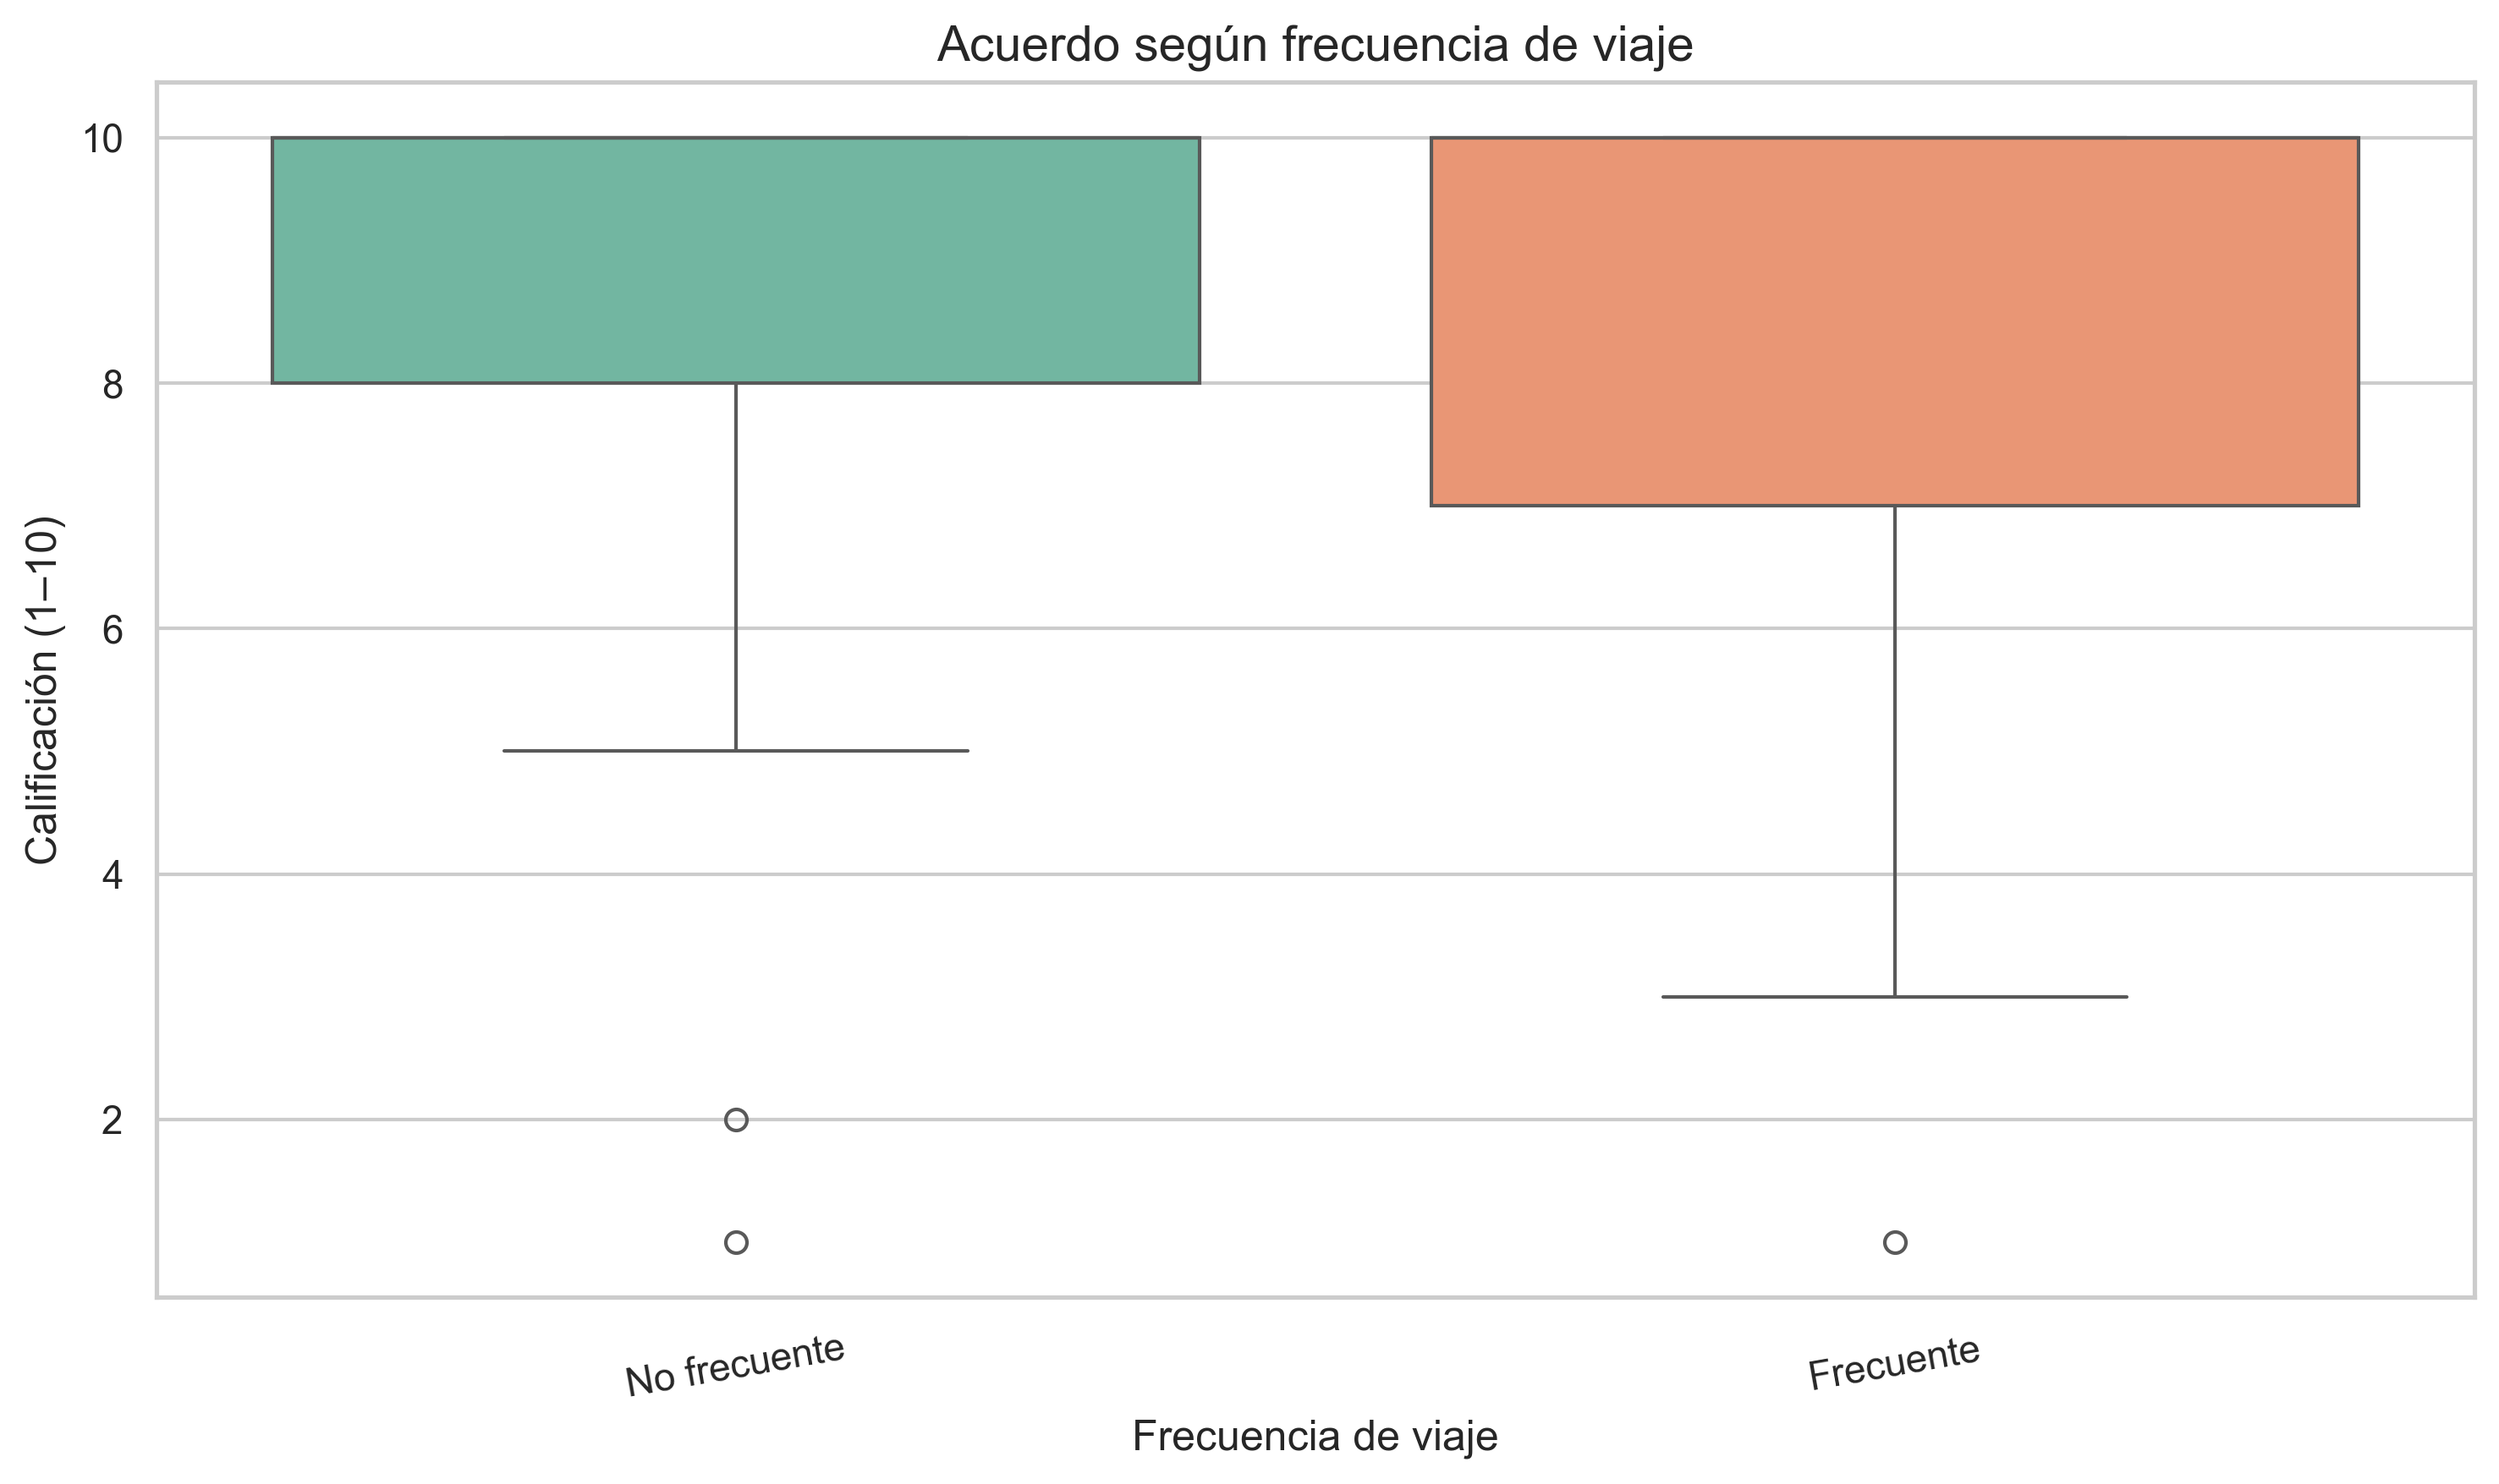
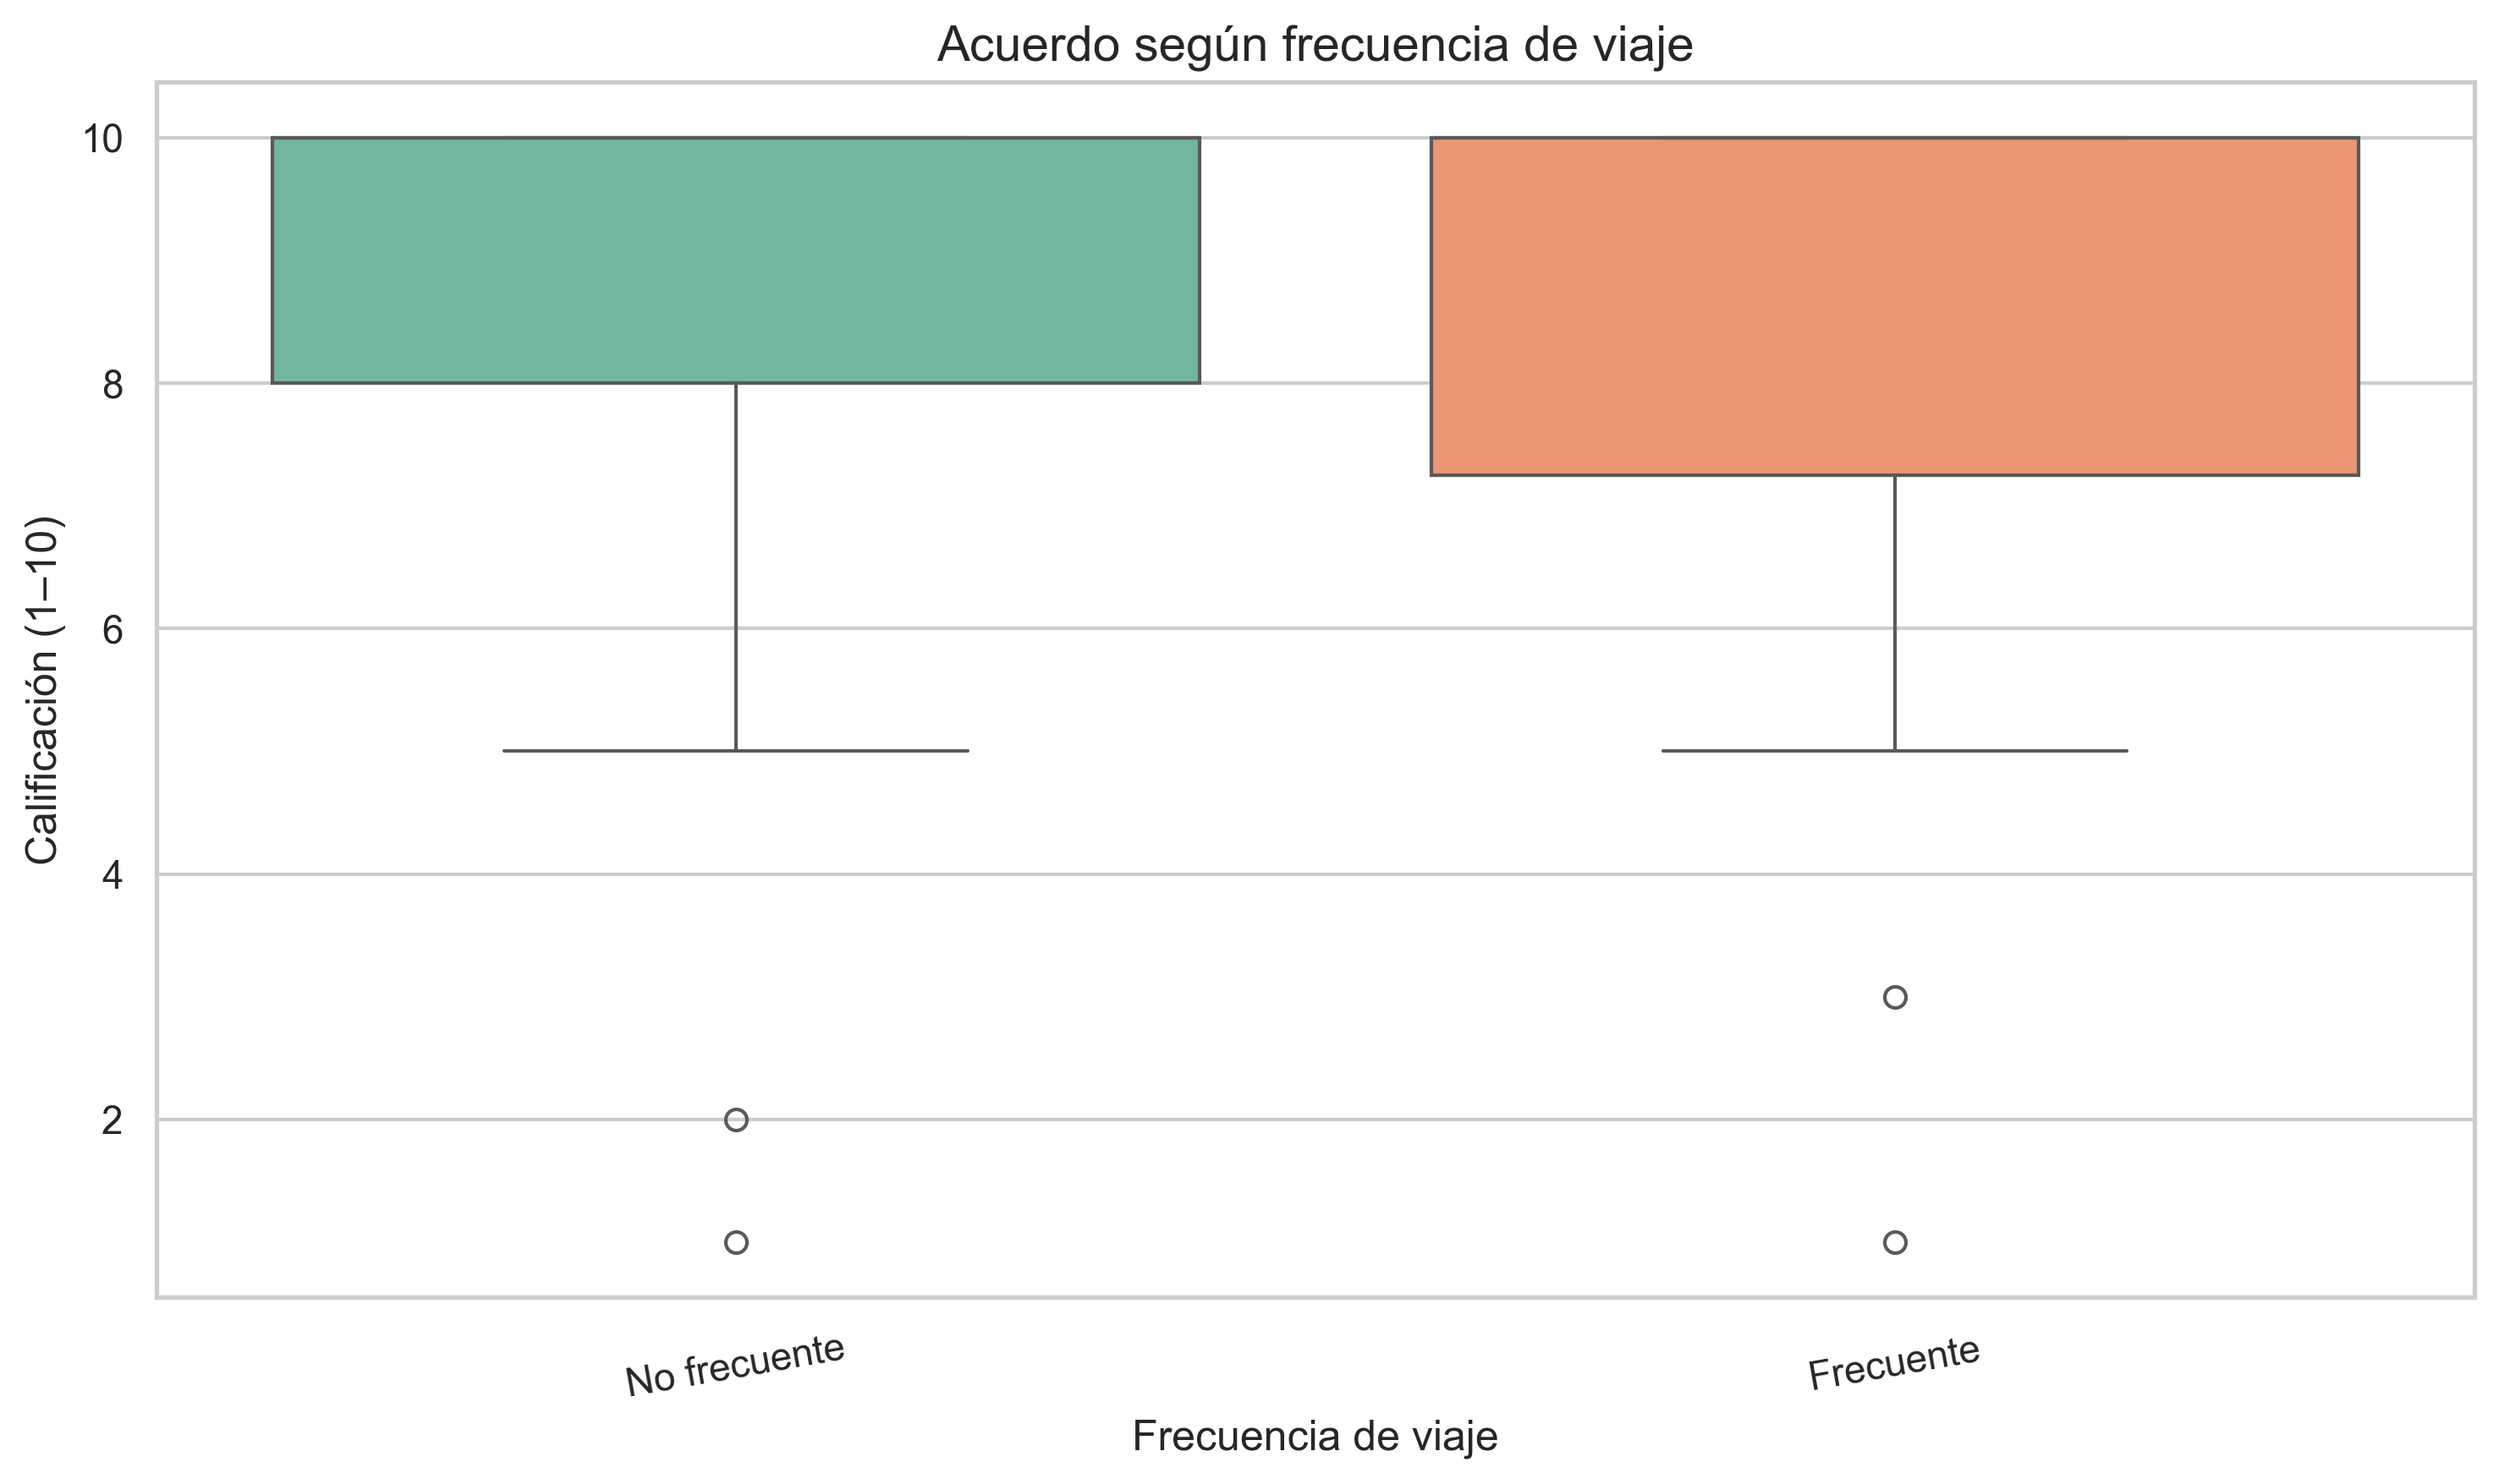
encuesta con 89 datos

Changed region(s): [[0.5606, 0.3077, 0.9655, 0.3692], [0.7475, 0.6462, 0.7786, 0.6769]]

diff --git a/reporte_estadistico.md b/reporte_estadistico.md
@@ -2,7 +2,7 @@
 
 ## 1. Descripción general de la muestra
 
-- Tamaño de la muestra: 76 encuestados.
+- Tamaño de la muestra: 89 encuestados.
 - Variables de interés:
   - Grado de acuerdo con la ampliación (1–10)
   - Percepción de impacto en la economía (1–10)
@@ -13,56 +13,56 @@
 
 ### 2.1. Grado de acuerdo con la ampliación
 
-- n = 76
-- Media = 8.72
+- n = 89
+- Media = 8.79
 - Mediana = 10.00
 - Moda = 10.00
-- Desviación estándar = 2.16
+- Desviación estándar = 2.07
 - Cuartiles: Q1 = 8.00, Q2 = 10.00, Q3 = 10.00
 
 ### 2.2. Impacto en la economía
 
-- n = 76
-- Media = 8.41
+- n = 89
+- Media = 8.45
 - Mediana = 9.00
 - Moda = 10.00
-- Desviación estándar = 2.11
+- Desviación estándar = 2.04
 - Cuartiles: Q1 = 7.00, Q2 = 9.00, Q3 = 10.00
 
 ### 2.3. Percepción de necesidad
 
-- n = 76
-- Media = 8.21
+- n = 89
+- Media = 8.24
 - Mediana = 9.00
 - Moda = 10.00
-- Desviación estándar = 2.26
+- Desviación estándar = 2.20
 - Cuartiles: Q1 = 7.00, Q2 = 9.00, Q3 = 10.00
 
 ## 3. Intervalos de confianza
 
 ### 3.1. Media del grado de acuerdo con la ampliación
 
-- n = 76
-- Media = 8.72
-- IC 95%: [8.23, 9.22]
+- n = 89
+- Media = 8.79
+- IC 95%: [8.35, 9.22]
 
-Con un 95 % de confianza, el verdadero promedio poblacional de acuerdo con la ampliación del aeropuerto se encuentra entre 8.23 y 9.22.
+Con un 95 % de confianza, el verdadero promedio poblacional de acuerdo con la ampliación del aeropuerto se encuentra entre 8.35 y 9.22.
 
 ### 3.2. Proporción de personas a favor de la ampliación
 
 - Definición de "a favor": calificación ≥ 6.
-- n = 76
+- n = 89
 - Proporción muestral = 0.91
-- IC 95%: [0.84, 0.97]
+- IC 95%: [0.85, 0.97]
 
-Con un 95 % de confianza, la proporción real de personas a favor de la ampliación se ubica entre 0.84 y 0.97.
+Con un 95 % de confianza, la proporción real de personas a favor de la ampliación se ubica entre 0.85 y 0.97.
 
 ## 4. Prueba de hipótesis principal
 
 - Hipótesis:
   - H0: μ ≤ 5.00
   - H1: μ > 5.00
-- Estadístico t = 15.04
+- Estadístico t = 17.26
 - p-valor (cola derecha) = 0.0000
 - Conclusión: Se rechaza la hipótesis nula y se concluye que la media poblacional supera a 5.00.
 
@@ -70,15 +70,15 @@ Con un 95 % de confianza, la proporción real de personas a favor de la ampliaci
 
 ```
                                        sum_sq    df         F    PR(>F)
-C(frecuencia_viaje)                  6.360358   1.0  1.579370  0.213029
-C(grupo_edad)                        6.262856   2.0  0.777580  0.463445
-C(frecuencia_viaje):C(grupo_edad)   52.783979   2.0  6.553519  0.002461
-Residual                           281.900352  70.0       NaN       NaN
+C(frecuencia_viaje)                  6.857059   1.0  1.804665  0.182856
+C(grupo_edad)                        3.504156   2.0  0.461118  0.632203
+C(frecuencia_viaje):C(grupo_edad)   53.047401   2.0  6.980601  0.001587
+Residual                           311.569655  82.0       NaN       NaN
 ```
 
 Modelo ANOVA ajustado correctamente.
 
-Interpretación: No se encontró evidencia significativa para el efecto principal de la frecuencia de viaje (p = 0.213). No se encontró evidencia significativa para el efecto principal del grupo etario (p = 0.463). Se encontró evidencia de que la interacción entre frecuencia de viaje y grupo etario es significativa (p = 0.002).
+Interpretación: No se encontró evidencia significativa para el efecto principal de la frecuencia de viaje (p = 0.183). No se encontró evidencia significativa para el efecto principal del grupo etario (p = 0.632). Se encontró evidencia de que la interacción entre frecuencia de viaje y grupo etario es significativa (p = 0.002).
 
 ## 6. Gráficas
 
@@ -92,8 +92,8 @@ Interpretación: No se encontró evidencia significativa para el efecto principa
 
 ## 7. Conclusiones generales
 
-- El grado de acuerdo con la ampliación presenta una media de 8.72, lo que sugiere una valoración favorable.
-- Las percepciones sobre el impacto económico (8.41) y la necesidad de la obra (8.21) también muestran niveles altos en la escala de 1 a 10.
+- El grado de acuerdo con la ampliación presenta una media de 8.79, lo que sugiere una valoración favorable.
+- Las percepciones sobre el impacto económico (8.45) y la necesidad de la obra (8.24) también muestran niveles altos en la escala de 1 a 10.
 - La prueba t con hipótesis H0: μ ≤ 5.00 arroja p = 0.0000, lo que respalda la afirmación de que la media supera el umbral..
-- No se encontró evidencia significativa para el efecto principal de la frecuencia de viaje (p = 0.213). No se encontró evidencia significativa para el efecto principal del grupo etario (p = 0.463). Se encontró evidencia de que la interacción entre frecuencia de viaje y grupo etario es significativa (p = 0.002).
+- No se encontró evidencia significativa para el efecto principal de la frecuencia de viaje (p = 0.183). No se encontró evidencia significativa para el efecto principal del grupo etario (p = 0.632). Se encontró evidencia de que la interacción entre frecuencia de viaje y grupo etario es significativa (p = 0.002).
 
